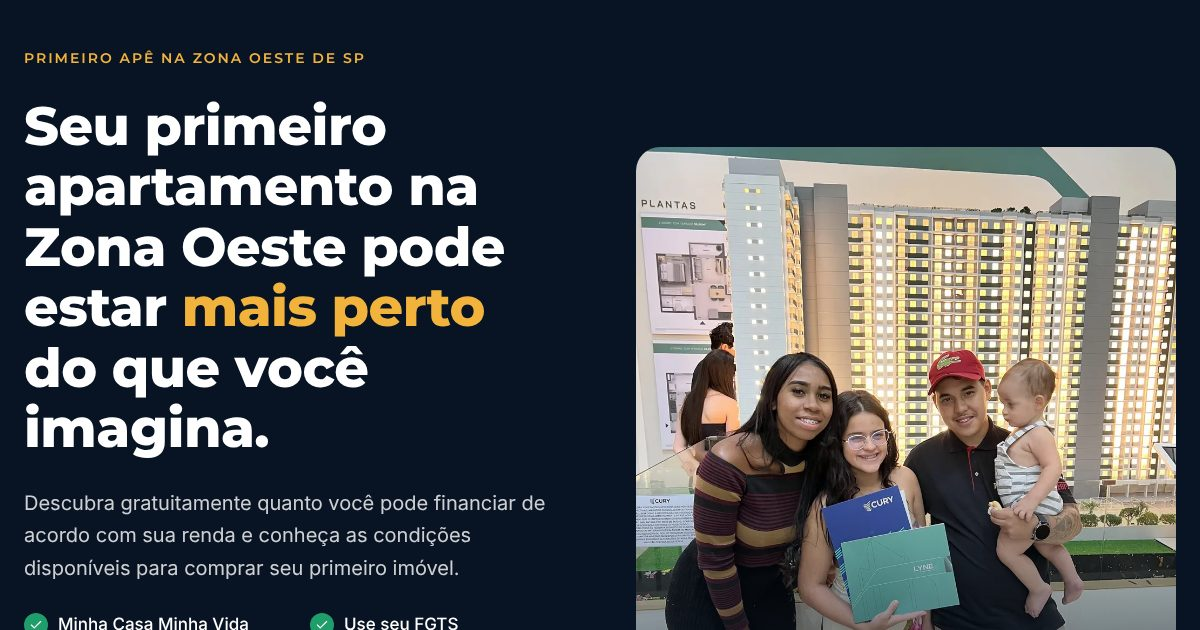
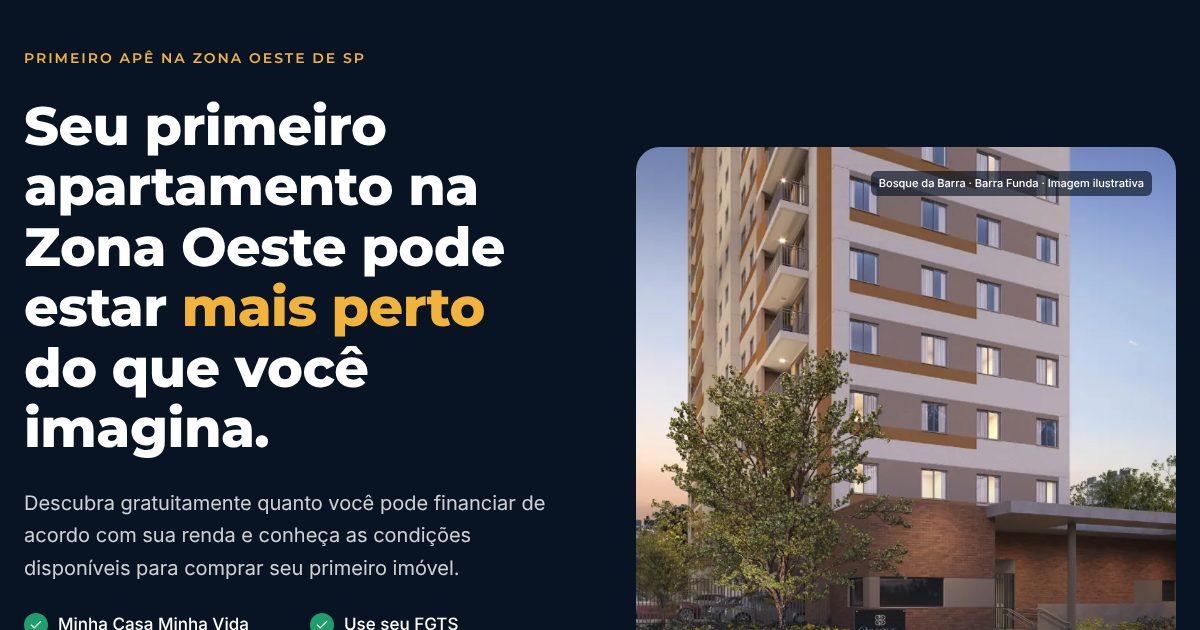
Imagens oficiais da Cury, foto nova do Kauê e textos de incorporação
- Hero sem foto de família: fachada do Bosque da Barra (perspectiva Cury)
- Oportunidades com os 4 lançamentos Cury da Zona Oeste e dados oficiais
  (dorms, metragem, lazer, referências), imagens do site da Cury
- Logo da Cury no hero, nas oportunidades, no bloco do Kauê e no rodapé
- Foto nova do Kauê e avatar
- Rodapé com o registro de incorporação de cada empreendimento (Lei 4.591/64)

Claude-Session: https://claude.ai/code/session_0153KryBzbp98YHx85VzMK5k

diff --git a/src/lib/site.ts b/src/lib/site.ts
@@ -23,6 +23,8 @@ export const pessoa = {
   primeiroNome: "Kauê",
   cargo: "Gerente de Vendas",
   empresa: "Cury",
+  logo: "/img/cury-logo.png",
+  logoBranco: "/img/cury-logo-branco.png",
   /** Obrigatorio em publicidade imobiliaria (Lei 6.530/78). */
   creci: "CRECI 269601",
   instagram: "gerentehoracio",
@@ -69,11 +71,12 @@ export const hero = {
     linha2: "+600 imóveis vendidos · Campeão de vendas da Zona Oeste",
   },
   imagem: {
-    src: "/img/hero-familia.webp",
-    largura: 1000,
-    altura: 1334,
-    alt: "Família de clientes do Kauê com a pasta do apartamento novo no stand de vendas",
+    src: "/img/hero-bosque-da-barra.webp",
+    largura: 1440,
+    altura: 900,
+    alt: "Perspectiva ilustrativa da fachada do Bosque da Barra, lançamento Cury na Barra Funda",
   } satisfies Foto,
+  legenda: "Bosque da Barra · Barra Funda",
 } as const;
 
 /* -------------------------------------------------------------------------- */
@@ -145,14 +148,17 @@ export const objecoes = {
 /* -------------------------------------------------------------------------- */
 
 /**
- * Dados conferidos em 20/10/2026 em portais de lancamento (apto.vc). Todos
- * sao lancamentos com beneficio Minha Casa Minha Vida. Preco NAO aparece de
- * proposito: muda toda semana e quem passa e o time do Kaue, na simulacao.
+ * Fonte: cury.net (paginas oficiais, conferidas em 20/10/2026) + metragens do
+ * portal apto.vc. Todos sao lancamentos com unidades HIS (Minha Casa Minha
+ * Vida). Imagens sao as perspectivas oficiais da Cury (ilustrativas).
+ * Preco NAO aparece de proposito: muda toda semana e sai na simulacao.
  * Nunca coloque endereco: so bairro e ponto de referencia.
+ * `registro` e o texto legal de incorporacao (Lei 4.591/64): obrigatorio em
+ * qualquer publicidade do empreendimento. Vai para o rodape.
  */
 export const oportunidades = {
   sobretitulo: "Zona Oeste de SP",
-  titulo: "Algumas oportunidades disponíveis na Zona Oeste",
+  titulo: "Lançamentos Cury disponíveis na Zona Oeste",
   descricao: "Opções para diferentes perfis. A simulação mostra quais combinam com você.",
   rotuloPreco: "Valores e condições",
   valorPreco: "Na sua simulação",
@@ -161,32 +167,56 @@ export const oportunidades = {
   itens: [
     {
       nome: "Parque das Perdizes",
-      bairro: "Barra Funda / Perdizes",
-      regiaoFormulario: "Perdizes",
-      referencia: "Pertinho da estação Barra Funda, do Shopping Bourbon e em frente à Playball",
+      bairro: "Barra Funda",
+      regiaoFormulario: "Barra Funda",
+      referencia: "Perto do Parque da Água Branca, da estação Palmeiras-Barra Funda e do Nubank Parque",
       tag: "Lançamento",
-      specs: ["1 e 2 dorms", "25 a 52 m²", "Lazer completo"],
-      imagem: { src: "/img/empreendimentos/playball.webp", largura: 800, altura: 1200, alt: "Imagem ilustrativa de prédio residencial" },
+      specs: ["1 e 2 dorms", "25 a 52 m²", "Opção de suíte e vaga"],
+      lazer: "Piscinas, beach tennis, mini quadra e playground",
+      imagem: { src: "/img/empreendimentos/parque-das-perdizes.webp", largura: 565, altura: 475, alt: "Perspectiva ilustrativa das torres do Parque das Perdizes" },
+      registro:
+        "CCISA187 INCORPORADORA LTDA. (PARQUE DAS PERDIZES). Incorporação registrada em 23/09/2026, R.18 da matrícula 29.041 do 15º Oficial de Registro de Imóveis da Comarca de São Paulo/SP. Com 676 unidades HIS-2 para famílias de 3 a 6 salários mínimos e 140 unidades R2V sem limite de renda.",
     },
     {
       nome: "Bosque da Barra",
       bairro: "Barra Funda",
       regiaoFormulario: "Barra Funda",
-      referencia: "Perto de metrô e trem",
+      referencia: "Perto do Sesc Bom Retiro, da estação Júlio Prestes e do Memorial da América Latina",
       tag: "Lançamento",
-      specs: ["1 e 2 dorms", "32 a 46 m²", "Lazer completo"],
-      imagem: { src: "/img/empreendimentos/bosque-da-barra.webp", largura: 800, altura: 445, alt: "Imagem ilustrativa de área de lazer com piscina" },
+      specs: ["2 dorms", "32 a 46 m²", "Opção de suíte e vaga"],
+      lazer: "Piscinas, rooftop, espaço yoga e playground",
+      imagem: { src: "/img/empreendimentos/bosque-da-barra.webp", largura: 800, altura: 500, alt: "Perspectiva ilustrativa do rooftop do Bosque da Barra" },
+      registro:
+        "CCISA 185 INCORPORADORA LTDA. (BOSQUE DA BARRA). Incorporação registrada em 25/05/2026, R.3 da matrícula 332.813 do 15º Oficial de Registro de Imóveis da Comarca de São Paulo/SP. Com 273 unidades HIS-1 para famílias de até 3 salários mínimos, 174 unidades HIS-2 para famílias de 3 a 6 salários mínimos, 100 unidades HMP para famílias de 6 a 10 salários mínimos e 77 unidades R2V sem limite de renda.",
+    },
+    {
+      nome: "Cidade Lapa – Perdizes",
+      bairro: "Lapa",
+      regiaoFormulario: "Lapa",
+      referencia: "Perto do Mercado Municipal da Lapa, da estação Lapa e do Centro de Tradições Nordestinas",
+      tag: "Lançamento",
+      specs: ["2 dorms", "34 a 46 m²", "Opção de suíte e vaga"],
+      lazer: "Piscinas, rooftop, espaço zen e solário",
+      imagem: { src: "/img/empreendimentos/cidade-lapa-perdizes.webp", largura: 800, altura: 500, alt: "Perspectiva ilustrativa das torres do Cidade Lapa – Perdizes" },
+      registro:
+        "CCISA29 INCORPORADORA LTDA. (CIDADE LAPA - PERDIZES). Incorporação registrada em 19/05/2026, R.6 da matrícula 174.806 do 10º Oficial de Registro de Imóveis da Comarca de São Paulo/SP. Com 504 unidades HIS-2 para famílias de 3 a 6 salários mínimos e 149 unidades R2V sem limite de renda.",
     },
     {
       nome: "Nova Leopoldina",
       bairro: "Vila Leopoldina",
       regiaoFormulario: "Vila Leopoldina",
-      referencia: "Perto de transporte e de parque",
+      referencia: "Perto do Ceagesp, do Sesc Vila Leopoldina e da estação Ceasa",
       tag: "Lançamento",
-      specs: ["2 dorms", "37 a 39 m²", "Lazer completo"],
-      imagem: { src: "/img/empreendimentos/nova-leopoldina.webp", largura: 800, altura: 1198, alt: "Imagem ilustrativa de sala de apartamento compacto" },
+      specs: ["2 dorms com terraço", "37 a 39 m²"],
+      lazer: "Piscinas, sport bar, playground e pet place",
+      imagem: { src: "/img/empreendimentos/nova-leopoldina.webp", largura: 800, altura: 500, alt: "Perspectiva ilustrativa da piscina e das torres do Nova Leopoldina – Condomínio Art" },
+      registro:
+        "CCISA205 INCORPORADORA LTDA. (NOVA LEOPOLDINA COND. ART). Incorporação registrada em 08/05/2026, R.2 da matrícula 188.611 do 10º Oficial de Registro de Imóveis da Comarca de São Paulo/SP. Com 527 unidades HIS-2 para famílias de 3 a 6 salários mínimos e 126 unidades R2V sem limite de renda.",
     },
   ],
+  /** Fecho comum dos textos de registro, publicado pela Cury. */
+  registroComum:
+    "Compradores com renda mensal acima dos limites mencionados podem adquirir as unidades para investimento nos termos do Decreto Municipal 63.130/2024. Para mais informações, consulte a Central de Vendas da Cury (CNPJ 14.055.045/0001-78: CCISA 08 Consultoria Imobiliária Ltda. – CRECI 23.670-J).",
 } as const;
 
 /* -------------------------------------------------------------------------- */
@@ -250,9 +280,9 @@ export const sobre = {
   cta: "Fazer minha simulação",
   foto: {
     src: "/img/kaue/kaue.webp",
-    largura: 460,
-    altura: 540,
-    alt: "Kauê Horácio, gerente de vendas, em Perdizes",
+    largura: 791,
+    altura: 674,
+    alt: "Kauê Horácio, gerente de vendas",
   } satisfies Foto,
   avatar: "/img/kaue/avatar.webp",
 } as const;
@@ -317,9 +347,8 @@ export const meta = {
 export const PENDENCIAS = [
   "(!) simulacao.faixas — valores reais de financiamento por faixa. Hoje os cards estao trancados (borrados) de proposito.",
   "(!) Autorizacao de uso de imagem das pessoas nas fotos e videos de prova social.",
-  "Nome oficial do lancamento da Playball (aqui: 'Parque das Perdizes', Cury, Barra Funda). Confirmar com o Kaue.",
-  "Logo da Cury em PNG oficial (e autorizacao de uso). Hoje a Cury aparece so em texto.",
-  "Foto profissional do Kaue (hoje: recorte de post do Instagram).",
-  "Imagens oficiais dos empreendimentos (hoje: banco de imagens, marcadas como ilustrativas).",
+  "Confirmar com o Kaue que ele atende os 4 lancamentos listados (Parque das Perdizes, Bosque da Barra, Cidade Lapa – Perdizes, Nova Leopoldina).",
+  "Metragens vem do portal apto.vc; conferir com as plantas oficiais.",
+  "Uso da marca e das perspectivas da Cury: confirmar que o Kaue, como gerente, pode usar nesta pagina.",
   "WhatsApp apos envio: desligado por decisao do cliente. Se pedirem, entra como wa.me na tela de sucesso.",
 ] as const;
